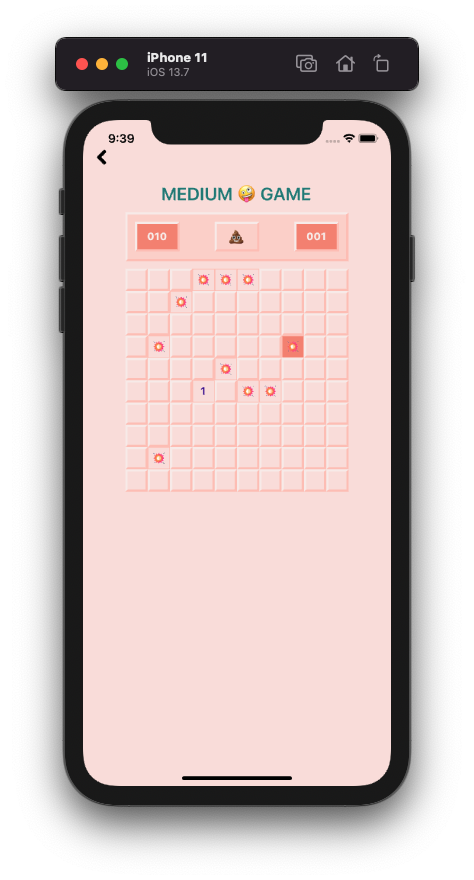
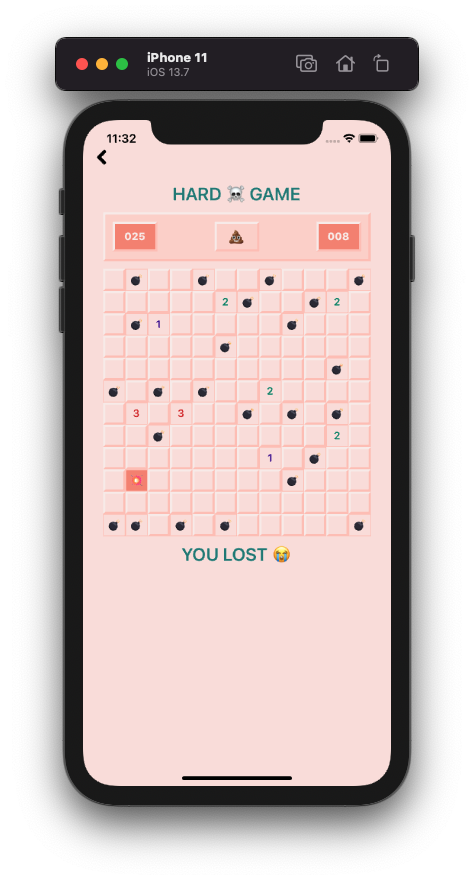
Added readme touches and win/lose messages

diff --git a/src/components/board/Cell.tsx b/src/components/board/Cell.tsx
@@ -49,7 +49,10 @@ export const Cell: React.FC<CellProps> = ({
   const renderContent = (): React.ReactNode => {
     if (isRevealed) {
       if (value === CellValue.bomb) {
-        return <Emoji source={require('~/images/explosion.png')} />;
+        if (isRed) {
+          return <Emoji source={require('~/images/explosion.png')} />;
+        }
+        return <Emoji source={require('~/images/bomb.png')} />;
       } else if (value === CellValue.none) {
         return null;
       }
@@ -86,8 +89,8 @@ const Container = styled.View<ContainerProps>`
   border-left-color: ${(props) => (props.isRevealed ? Colors.PINK_800 : Colors.PINK_100)};
   border-right-color: ${(props) => (props.isRevealed ? Colors.PINK_800 : Colors.PINK_800)};
   border-bottom-color: ${(props) => (props.isRevealed ? Colors.PINK_800 : Colors.PINK_800)};
-  width: 30;
-  height: 30;
+  width: 30px;
+  height: 30px;
   justify-content: center;
   align-items: center;
 `;

diff --git a/src/components/board/EmojiButton.tsx b/src/components/board/EmojiButton.tsx
@@ -2,7 +2,7 @@ import React from 'react';
 import { TouchableWithoutFeedback } from 'react-native';
 import styled from 'styled-components/native';
 import { Colors } from '~/theme/Colors';
-import { EmojiState, EmojiType } from '~/types/EmojiTypes';
+import { EmojiType } from '~/types/EmojiTypes';
 
 interface EmojiButtonProps {
   emoji: EmojiType;
@@ -37,8 +37,8 @@ export const EmojiButton: React.FC<EmojiButtonProps> = ({
  */
 
 const Container = styled.View<ContainerProps>`
-  width: 60;
-  height: 40;
+  width: 60px;
+  height: 40px;
   margin: 10px;
   justify-content: center;
   align-items: center;
@@ -53,5 +53,5 @@ const Container = styled.View<ContainerProps>`
 `;
 
 const Emoji = styled.Text`
-  font-size: 20;
+  font-size: 20px;
 `;

diff --git a/src/views/GameView.tsx b/src/views/GameView.tsx
@@ -259,6 +259,9 @@ export const GameView: React.FC<GameProps> = ({
           onCellPressOut={handleCellPressOut}
           onLongCellPress={handleLongCellPress}
         />
+        <Spacer />
+        {gameOver && <SectionTitle>YOU LOST 😭</SectionTitle>}
+        {gameWon && <SectionTitle>YOU WIN 💯</SectionTitle>}
       </ContentContainer>
     </Container>
   );

diff --git a/src/components/board/Board.tsx b/src/components/board/Board.tsx
@@ -71,7 +71,6 @@ export const Board: React.FC<BoardProps> = ({
 const Container = styled(View)<ContainerProps>`
   flex-direction: row;
   flex-wrap: wrap;
-  width: ${(props) => props.boardWidth};
-  height: ${(props) => props.boardHeight};
-  background-color: red;
+  width: ${(props) => props.boardWidth}px;
+  height: ${(props) => props.boardHeight}px;
 `;

diff --git a/src/components/board/NumberDisplay.tsx b/src/components/board/NumberDisplay.tsx
@@ -29,8 +29,8 @@ const Container = styled.View`
   border-left-color: ${Colors.PINK_100};
   border-right-color: ${Colors.PINK_800};
   border-bottom-color: ${Colors.PINK_800};
-  width: 60;
-  height: 40;
+  width: 60px;
+  height: 40px;
   justify-content: center;
   align-items: center;
 `;

diff --git a/README.md b/README.md
@@ -2,10 +2,52 @@
 
 Minesweeper game made using React Native, Typescript, and Styled Components!
 
-<img src="minesweeper.png" alt="minesweeper" style="margin-left: 15px;" />
-
-<img src="minesweeper2.png" alt="minesweeper" style="margin-left: 15px;" />
+<img src="minesweeper.gif" alt="minesweeper" style="margin-left: 15px;" />
 
 <img src="minesweeper3.png" alt="minesweeper" style="margin-left: 15px;" />
 
-<img src="minesweeper4.png" alt="minesweeper" style="margin-left: 15px;" />
+## How to use 💯
+
+You'll need [Git](https://git-scm.com), [Node.js](https://nodejs.org) + [Yarn](https://yarnpkg.com/) installed to run this game on your computer.
+
+#### Clone this repository
+
+```bash
+# Clone this repository
+$ git clone git@github.com:ayelenmarie/minesweeper.git
+```
+
+#### Go inside the folder of the repository
+
+```bash
+# Go into the repository
+$ cd minesweeper
+```
+
+#### Install required dependencies
+
+```bash
+# Install general dependencies
+$ yarn
+
+# Install iOS Pods
+$ cd ios && pod install
+```
+
+#### Run the bundle
+
+```bash
+$ yarn start
+```
+
+#### Run the app
+
+```bash
+# iOS
+$ yarn ios
+
+# Android
+$ yarn android
+```
+
+Made by [Ayelen Guini](https://www.linkedin.com/in/ayelenmarie/) with 💛 and 😸!
